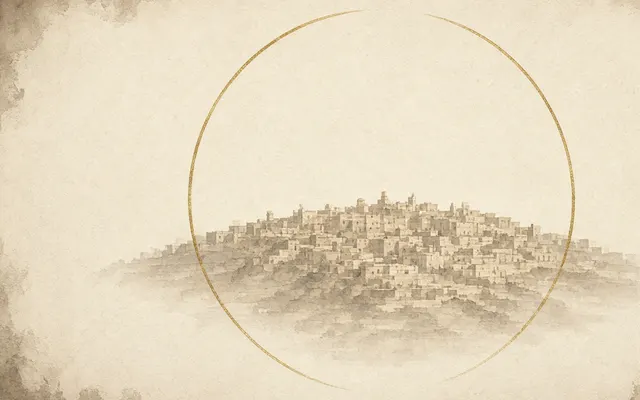
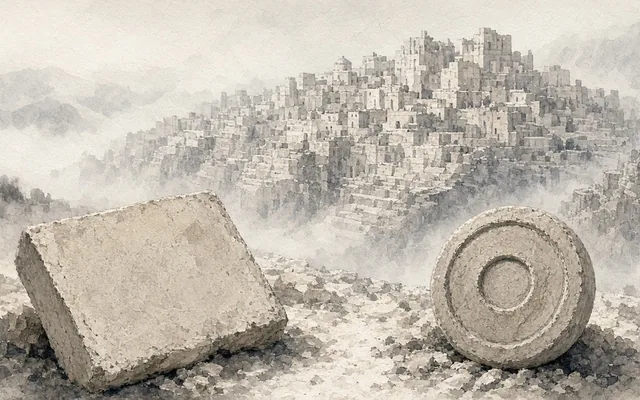
Replace civilization Batch E city covers and node-city hero. (#127)
Fresh 2026-10-18 Art overwrites the interim node-city crops: city-stage 1–10 at 1280, 640, and 400, plus a new node-city-v1.jpg and civ-layer-city WebP. The city page keeps the 640 src and adds 1280w to the srcset. The hub city card keeps the JPEG src and prefers civ-layer-city WebP in the srcset. Tech, cosmos, chronicle, and origins stay as they are.

diff --git a/tests/civilization.test.ts b/tests/civilization.test.ts
@@ -207,6 +207,8 @@ describe('civilization thick pages', () => {
     expect(techCard).toContain('科技與發現');
     const cityCard = aside.slice(aside.indexOf('href="/civilization/city/"'));
     expect(cityCard).toContain('src="/static/civilization/node-city-v1.jpg"');
+    expect(cityCard).toContain('civ-layer-city-400w.webp 400w');
+    expect(cityCard).toContain('civ-layer-city-640w.webp 640w');
     expect(cityCard).toContain('城市・基建・民生');
     for (const file of [
       'civ-home-axis-bg-640w.webp',
@@ -233,6 +235,8 @@ describe('civilization thick pages', () => {
       'node-tech-v1.jpg',
       'civ-layer-tech-400w.webp',
       'civ-layer-tech-640w.webp',
+      'civ-layer-city-400w.webp',
+      'civ-layer-city-640w.webp',
       'MANIFEST.md',
     ]) {
       expect(existsSync(`public/static/civilization/${file}`), file).toBe(true);
@@ -497,8 +501,10 @@ describe('civilization thick pages', () => {
       expect(section).toContain('class="civ-figure"');
       expect(section).toContain(`src="/static/civilization/city-stage-${stage.n}-cover-640w.webp"`);
       expect(section).toContain(`city-stage-${stage.n}-cover-400w.webp 400w`);
+      expect(section).toContain(`city-stage-${stage.n}-cover-1280w.webp 1280w`);
       expect(section).toContain('onerror="this.hidden=true"');
       expect(section).toContain('class="stage-seal"');
+      expect(existsSync(`public/static/civilization/city-stage-${stage.n}-cover-1280w.webp`), `city ${stage.n} 1280`).toBe(true);
       expect(existsSync(`public/static/civilization/city-stage-${stage.n}-cover-640w.webp`), `city ${stage.n} 640`).toBe(true);
       expect(existsSync(`public/static/civilization/city-stage-${stage.n}-cover-400w.webp`), `city ${stage.n} 400`).toBe(true);
       for (const line of stage.lines) expect(section).toContain(`>${line}<`);

diff --git a/shared/civilization/city.ts b/shared/civilization/city.ts
@@ -214,13 +214,13 @@ function paperSeal(n: number): string {
   return `<span class="stage-seal">${ordinal(n)}</span>`;
 }
 
-/** Cover slot for every stage. The paper ordinal stays hidden while the WebP loads. */
+/** 640×400 stage cover, with a 1280w candidate for high-DPR. onerror hides a missing file so the paper seal remains. */
 export function cityCoverImg(stage: CityStage, eager: boolean): string {
   const base = `${CIV}/city-stage-${stage.n}-cover`;
   const loading = eager ? 'eager' : 'lazy';
   const priority = eager ? ' fetchpriority="high"' : '';
   const alt = `${stage.name}：溫和示意，年代為約數`;
-  return `<img src="${base}-640w.webp" srcset="${base}-400w.webp 400w, ${base}-640w.webp 640w" sizes="(max-width: 640px) 100vw, 400px" width="640" height="400" alt="${esc(alt)}" loading="${loading}"${priority} decoding="async" onerror="this.hidden=true" />`;
+  return `<img src="${base}-640w.webp" srcset="${base}-400w.webp 400w, ${base}-640w.webp 640w, ${base}-1280w.webp 1280w" sizes="(max-width: 640px) 100vw, 400px" width="640" height="400" alt="${esc(alt)}" loading="${loading}"${priority} decoding="async" onerror="this.hidden=true" />`;
 }
 
 function sourceHref(url: string): string {

diff --git a/shared/civilizationPage.ts b/shared/civilizationPage.ts
@@ -284,7 +284,7 @@ export function renderLayerAside(): string {
         <p>工具、能源、媒介與知識。從深時間石器到今日新聞切片。</p>
       </a>
       <a class="layer-card layer-primary" href="/civilization/city/">
-        ${layerCover(`${CIV}/node-city-v1.jpg`, '城市・基建・民生示意')}
+        ${layerCover(`${CIV}/node-city-v1.jpg`, '城市・基建・民生示意', `${CIV}/civ-layer-city-400w.webp 400w, ${CIV}/civ-layer-city-640w.webp 640w`)}
         <div class="era">公共生活</div>
         <h3>城市・基建・民生</h3>
         <p>聚落、公共工程與日常公共生活。香港地標只作本地案例。</p>

diff --git a/public/static/civilization/MANIFEST.md b/public/static/civilization/MANIFEST.md
@@ -12,6 +12,8 @@ Red lines: no Taiwan / politics / border maps / faces / flags
 
 **Batch D remake 2026-10-18** (no old-crop): fresh Art replaced the interim crops of `node-tech-v1.jpg`. Tech stage covers are `tech-stage-{1..10}-cover-{1280,640,400}w.webp` (1280×720 native; 640×400 and 400×250 are 16:10 crops, not a recompress of the previous covers). The tech page keeps the 640 src and includes 1280w in the srcset. The page hero still uses `node-tech-v1.jpg`, now a fresh 1600×900 JPEG. The hub tech card keeps that JPEG as `src` and prefers `civ-layer-tech-{640,400}w.webp` (640×480 and 400×300, 4:3) in the srcset. Axis, hub hero, origins, cosmos, chronicle, and city files are unchanged.
 
+**Batch E remake 2026-10-18** (no old-crop): fresh Art replaced the interim crops of `node-city-v1.jpg`. City stage covers are `city-stage-{1..10}-cover-{1280,640,400}w.webp` (1280×720 native; 640×400 and 400×250 are 16:10 crops, not a recompress of the previous covers). The city page keeps the 640 src and includes 1280w in the srcset. The page hero still uses `node-city-v1.jpg`, now a fresh 1600×900 JPEG. The hub city card keeps that JPEG as `src` and prefers `civ-layer-city-{640,400}w.webp` (640×480 and 400×300, 4:3) in the srcset. Axis, hub hero, origins, cosmos, chronicle, and tech files are unchanged. Batches A–E remake complete.
+
 | Slot | Files | Notes |
 |------|-------|-------|
 | H1 axis-bg | civ-home-axis-bg-{640,960,1280,1920}w.webp (+jpg) | CSS bg; opacity 0.35–0.55 + ink mask; alt="" |
@@ -24,11 +26,11 @@ Red lines: no Taiwan / politics / border maps / faces / flags
 
 Masters also under /workspace/world-news/assets/civilization/
 
-Checked-in drop is WebP only (JPEG twins were not attached), plus `overview-hero-v1.jpg`. `node-city-v1.jpg` remains the city layer cover. `node-tech-v1.jpg` is the tech page hero and the hub layer fallback; that card prefers `civ-layer-tech-{640,400}w.webp` in its srcset. `node-today` is not mounted on the axis.
+Checked-in drop is WebP only (JPEG twins were not attached), plus `overview-hero-v1.jpg`. `node-tech-v1.jpg` is the tech page hero and the hub layer fallback; that card prefers `civ-layer-tech-{640,400}w.webp` in its srcset. `node-city-v1.jpg` is the city page hero and the hub layer fallback; that card prefers `civ-layer-city-{640,400}w.webp` in its srcset. `node-today` is not mounted on the axis.
 
 | Slot | Files | Notes |
 |------|-------|-------|
 | S1–S10 stage covers | civ-stage-{1..10}-cover-{1280,640,400}w.webp | Batch B remake 2026-10-18, not old-crop. 1280×720 plus 640×400 / 400×250 16:10 crops. Hub cards and chronicle figures. Strip stays a paper ordinal; no `civ-node-*-480w` thumb is on disk. |
 | CS1–CS10 cosmos covers | cosmo-stage-{1..10}-cover-{1280,640,400}w.webp | Batch C remake 2026-10-18, fresh art not old-crop. 1280×720 plus 640×400 / 400×250 16:10 crops. Hub cosmos card uses CS1. Paper ordinal is hidden unless the file fails. See `MANIFEST-cosmo-stages.md`. |
 | T1–T10 tech covers | tech-stage-{1..10}-cover-{1280,640,400}w.webp | Batch D remake 2026-10-18, fresh art not an old crop of `node-tech-v1.jpg`. 1280×720 plus 640×400 / 400×250 16:10 crops. Page hero keeps the fresh JPEG. Hub layer prefers `civ-layer-tech-{640,400}w.webp`. |
-| U1–U10 city covers | city-stage-{1..10}-cover-{640,400}w.webp | 640×400 and 400×250, 16:10. Interim crops of `node-city-v1.jpg` for `/civilization/city/`. Page hero keeps the full JPEG. |
+| U1–U10 city covers | city-stage-{1..10}-cover-{1280,640,400}w.webp | Batch E remake 2026-10-18, fresh art not an old crop of `node-city-v1.jpg`. 1280×720 plus 640×400 / 400×250 16:10 crops. Page hero keeps the fresh JPEG. Hub layer prefers `civ-layer-city-{640,400}w.webp`. |
